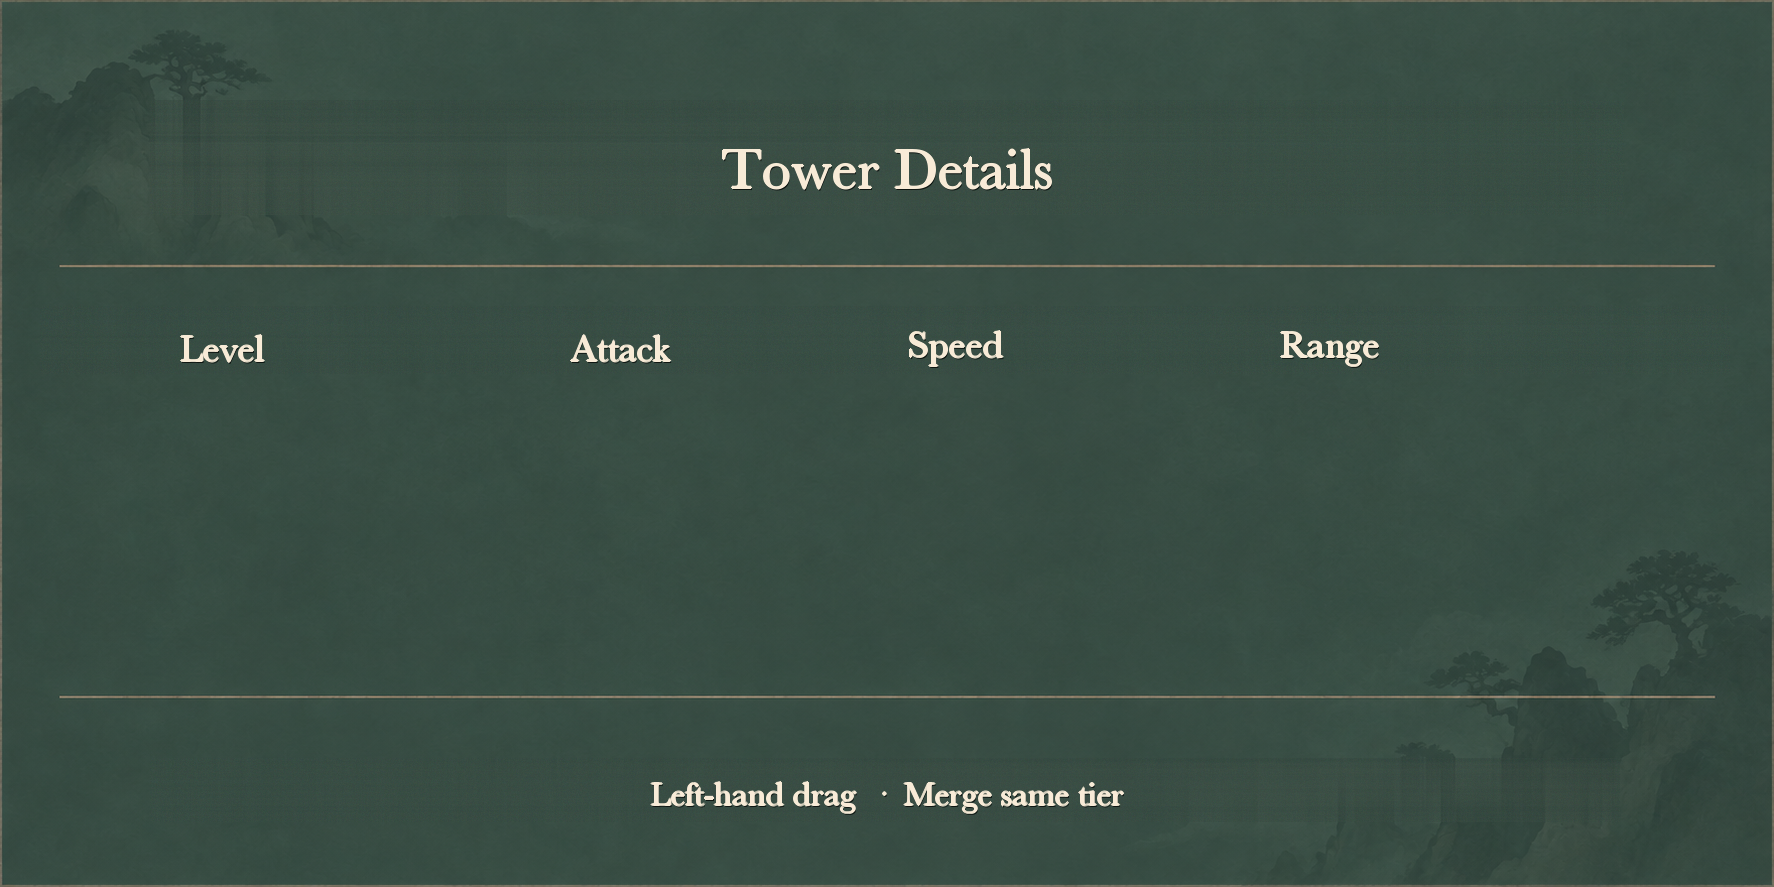
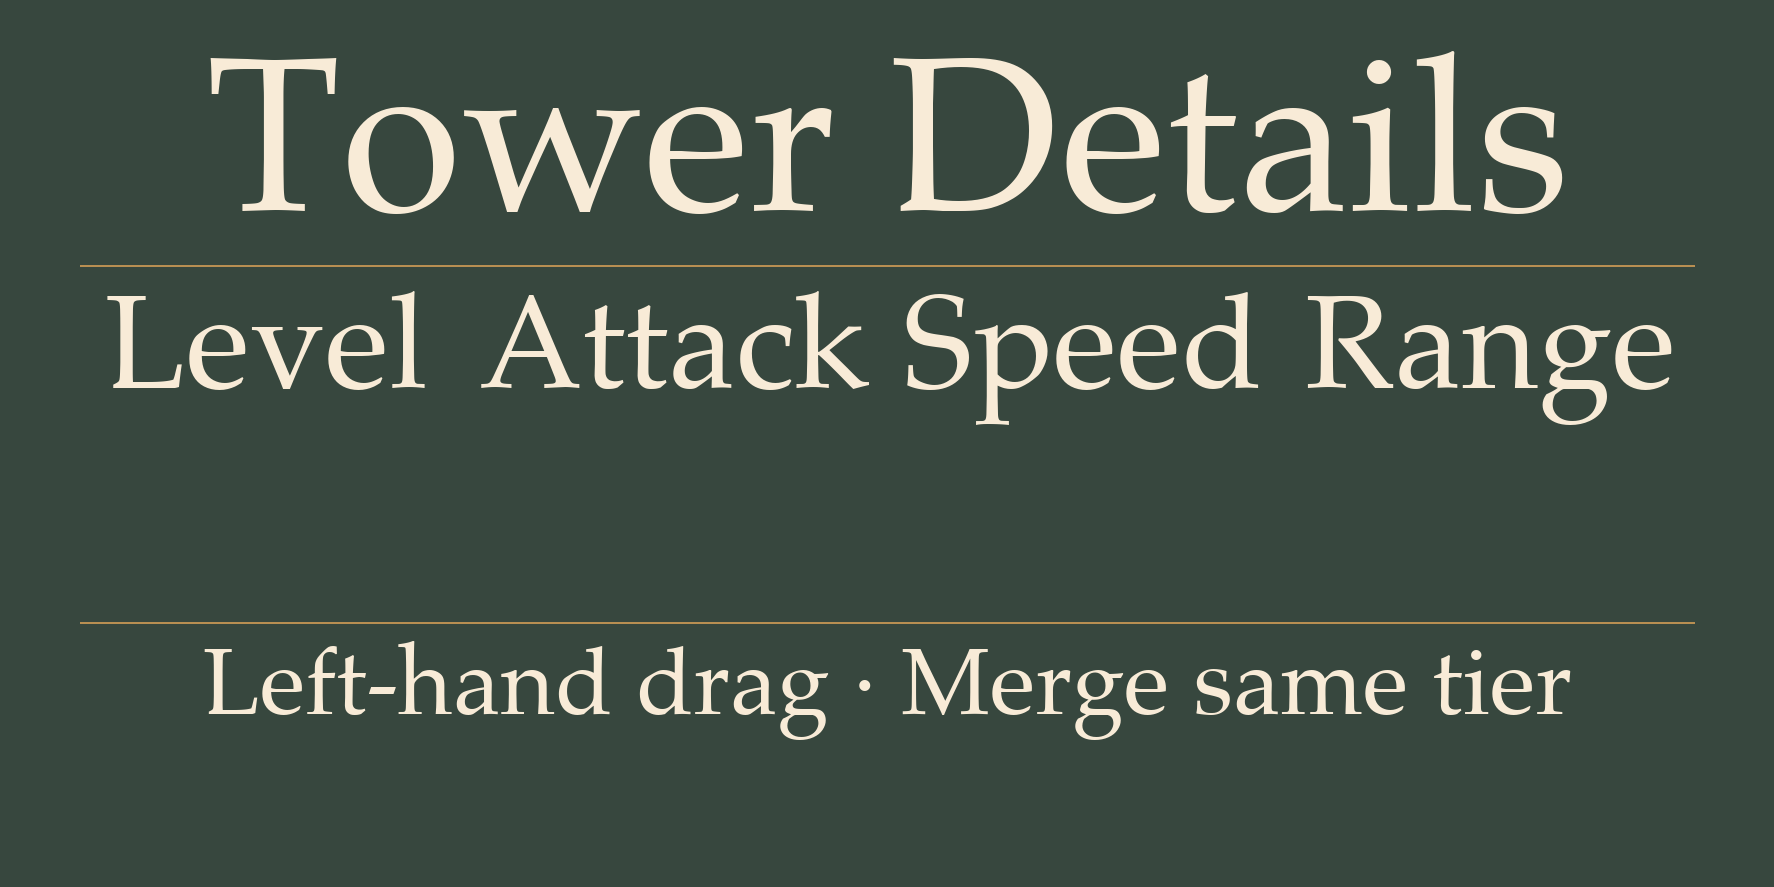
VR spec C：Guide / Stats / WaveStates 面板文字放大
面板字高检查（全部符合规范 C）：

Guide.png (1536×1024, 面板 0.72×0.55m, 距离 2.20m, 密度 1862 px/m):
  标题 "Two-Hand Controls"  167px → cap=115.2px = 61.9mm ≥ 61.6mm ✓
  正文 5行控制说明          101px → cap= 69.7px = 37.4mm ≥ 37.4mm ✓
  代码：Guide 面板高度 0.48 → 0.55m

Stats.png (1774×887, 面板 0.66×0.33m, 距离 2.0m, 密度 2688 px/m):
  标题 "Tower Details"      220px → cap=151.8px = 56.5mm ≥ 56.0mm ✓
  列标题 Level/Attack/…     133px → cap= 91.8px = 34.1mm ≥ 34.0mm ✓
  提示 "Left-hand drag…"     94px → cap= 64.9px = 24.1mm ≥ 24.0mm ✓
  代码：动态数字高度 0.042 → 0.050m（满足 2.0m 正文规范）

WaveStates.png (1536×1024, 每列 512px → 卡片 0.18×0.36m, 距离 1.48m, 密度 2844 px/m):
  状态名 Defending / Temple Saved / Temple Lost  107px → cap=73.8px = 26.0mm ≥ 25.2mm ✓
  副标题 Purify foes / Lamp endures / Try Again   74px → cap=51.1px = 18.0mm ≥ 17.8mm ✓
  保留原始植物插画（叶、莲、落叶）

ProjectSetup.ApplyPolish20261022 新增 Guide / Stats / WaveStates 重导入条目
对比图：VisualQA/Polish-20261022/{Guide,Stats,WaveStates}_comparison.png

diff --git a/Assets/SpatialTowerDefense/Runtime/SpatialTowerDefenseGame.cs b/Assets/SpatialTowerDefense/Runtime/SpatialTowerDefenseGame.cs
@@ -1800,7 +1800,7 @@ namespace PicoTowerDefense
             // The side panel therefore comes both inward and forward as the
             // viewer sees it, matching its camera-facing billboard normal.
             _interactionGuideRoot = PanelRoot("Two Hand World Interaction Guide", InteractionGuidePositionTowardViewer());
-            GeneratedLotusPanel.Create(_interactionGuideRoot, "Generated Controller Guide", "Guide", new Vector2(0.72f, 0.48f), Vector3.zero);
+            GeneratedLotusPanel.Create(_interactionGuideRoot, "Generated Controller Guide", "Guide", new Vector2(0.72f, 0.55f), Vector3.zero);
         }
 
         private static Vector3 InteractionGuidePositionTowardViewer()
@@ -1925,7 +1925,7 @@ namespace PicoTowerDefense
             float[] columns = { 0.15f, 0.38f, 0.61f, 0.84f };
             for (int i = 0; i < 4; i++)
                 _towerDigits[i] = GeneratedLotusPanel.Digits(_towerInfoRoot,
-                    new Vector3((columns[i] - 0.5f) * 0.66f, -0.033f, -0.003f), 0.042f, 5);
+                    new Vector3((columns[i] - 0.5f) * 0.66f, -0.033f, -0.003f), 0.050f, 5);
             _towerInfoRoot.gameObject.SetActive(false);
         }
 

diff --git a/Assets/SpatialTowerDefense/Editor/ProjectSetup.cs b/Assets/SpatialTowerDefense/Editor/ProjectSetup.cs
@@ -1006,6 +1006,9 @@ namespace PicoTowerDefenseEditor
             {
                 "Assets/SpatialTowerDefense/Resources/UI/GeneratedV5/Status.png",
                 "Assets/SpatialTowerDefense/Resources/UI/GeneratedV5/Briefing.png",
+                "Assets/SpatialTowerDefense/Resources/UI/GeneratedV5/Guide.png",
+                "Assets/SpatialTowerDefense/Resources/UI/GeneratedV5/Stats.png",
+                "Assets/SpatialTowerDefense/Resources/UI/GeneratedV5/WaveStates.png",
             })
             {
                 if (AssetImporter.GetAtPath(texPath) is TextureImporter ti)
@@ -1050,7 +1053,7 @@ namespace PicoTowerDefenseEditor
 
             AssetDatabase.SaveAssets();
             AssetDatabase.Refresh();
-            Debug.Log("[Polish-20261022] Texture reimport and audio import complete. Run Verify to check all panels.");
+            Debug.Log("[Polish-20261022] Texture reimport and audio import complete (Status, Briefing, Guide, Stats, WaveStates). Run Verify to check all panels.");
         }
 
         private static void ConfigureAudioImporters()
